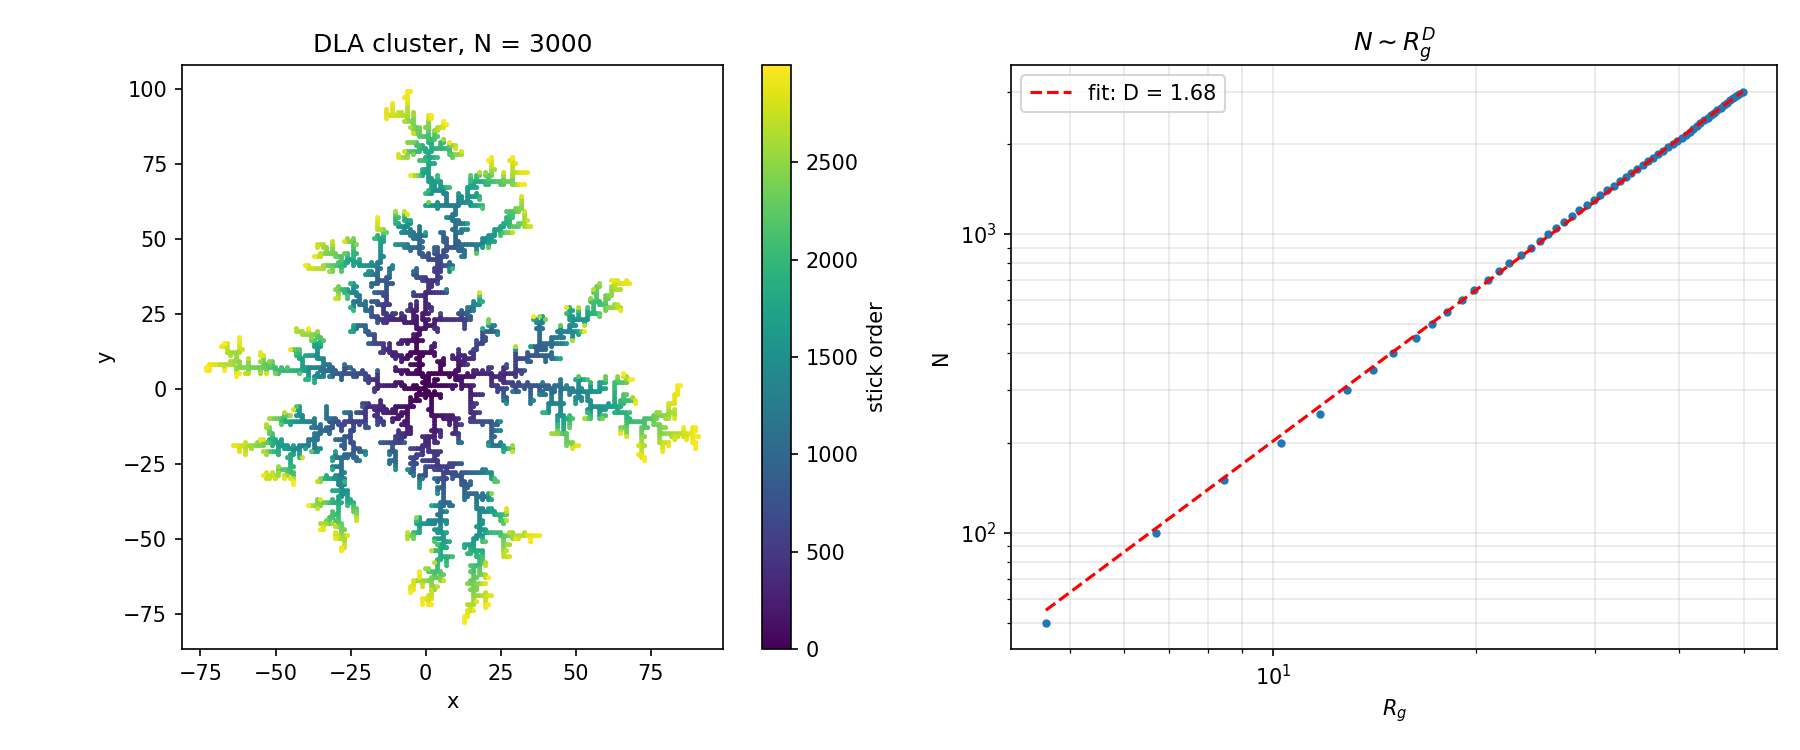
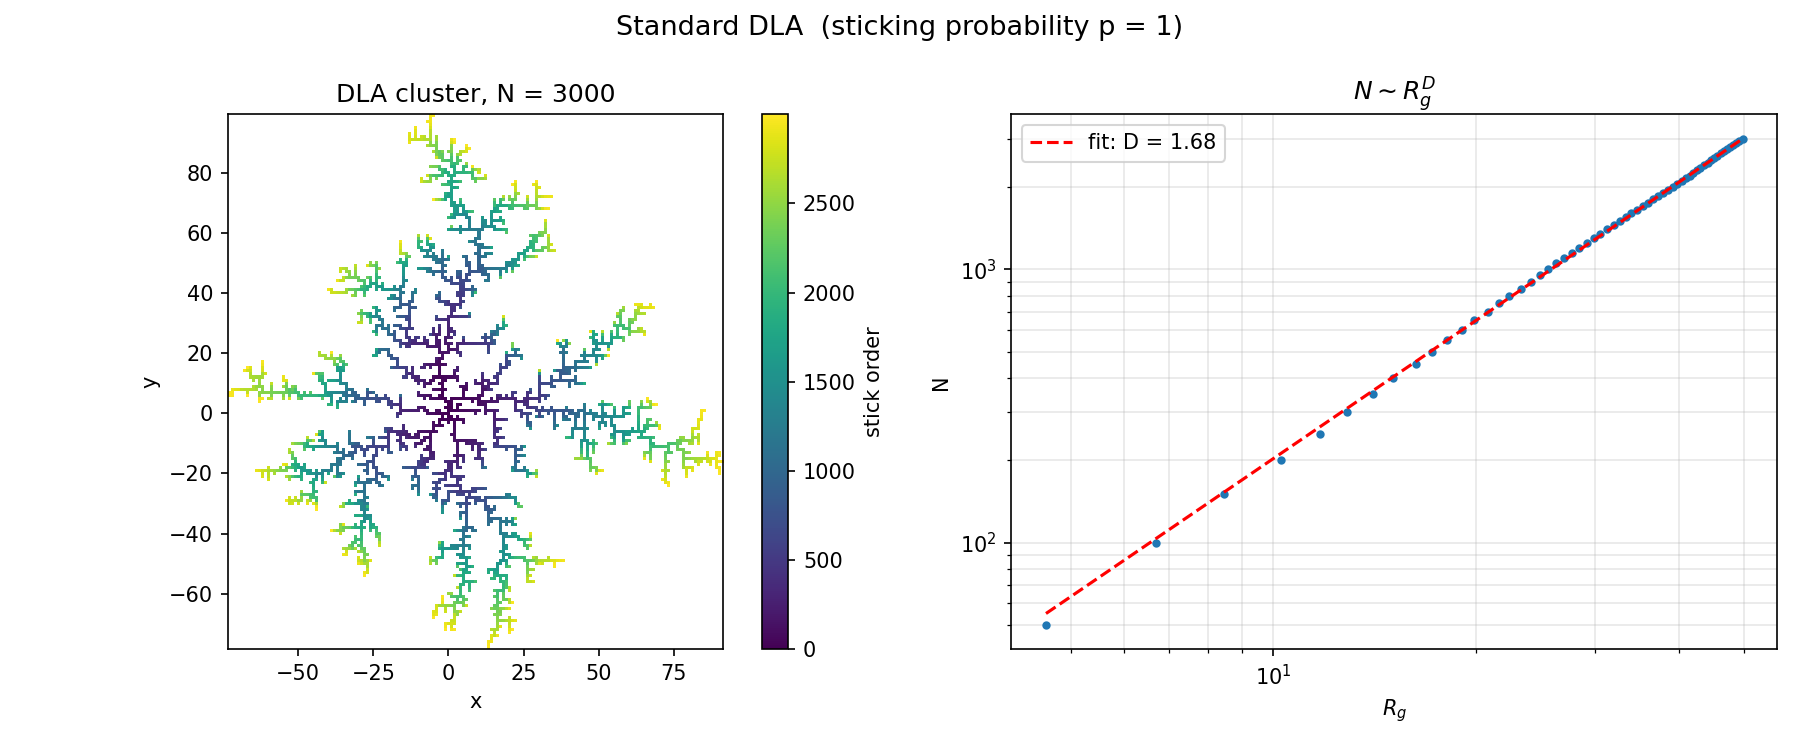
made 1/N DLA implemenation

diff --git a/DLA_with_DimensionPlot.py b/DLA_with_DimensionPlot.py
@@ -16,15 +16,23 @@ Expected: D ~= 1.71 in 2D for large clusters.
 
 import math
 import random
+from typing import Callable
 import numpy as np
 import matplotlib.pyplot as plt
 
 
 def run_dla(n_particles: int,
-            stick_prob: float = 1.0,
+            stick_prob: float | Callable[[int], float] = 1.0,
             seed: int | None = None) -> tuple[np.ndarray, list[float]]:
     """
     Grow a DLA cluster of n_particles on the 2D square lattice.
+
+    stick_prob may be either:
+      - a float in (0, 1]: constant sticking probability, or
+      - a callable f(n) -> probability, evaluated with the current cluster
+        size n at each contact. E.g. stick_prob=lambda n: 1.0 / n gives a
+        probability that decays as 1/N, so walkers penetrate deeper into the
+        cluster as it grows.
 
     Returns:
         sites: (N, 2) integer array of particle coordinates, in stick order
@@ -83,11 +91,23 @@ def run_dla(n_particles: int,
             ix = int(round(x))
             iy = int(round(y))
 
-            # Check if any neighbor is occupied -> stick (with prob stick_prob).
+            # If the walker has wandered onto an occupied site (possible when
+            # the stick probability is low and it keeps moving), step off
+            # rather than attaching a duplicate on top of an existing particle.
+            if (ix, iy) in cluster:
+                dx, dy = random.choice(neighbors)
+                x = ix + dx
+                y = iy + dy
+                continue
+
+            # Check if any neighbor is occupied -> stick (with prob p).
+            # p is either a constant or, for the 1/N variant, a function of
+            # the current cluster size n.
+            p = float(stick_prob(n) if callable(stick_prob) else stick_prob)
             stuck = False
             for dx, dy in neighbors:
                 if (ix + dx, iy + dy) in cluster:
-                    if stick_prob >= 1.0 or random.random() < stick_prob:
+                    if p >= 1.0 or random.random() < p:
                         stuck = True
                         break
 
@@ -136,18 +156,29 @@ def estimate_D(Rg_history: list[float], n_particles: int) -> float:
     return float(D)
 
 
-def plot_cluster(sites: np.ndarray, Rg_history: list[float], n_particles: int):
+def plot_cluster(sites: np.ndarray, Rg_history: list[float], n_particles: int,
+                 label: str = ""):
     fig, (ax1, ax2) = plt.subplots(1, 2, figsize=(12, 5))
+    if label:
+        fig.suptitle(label, fontsize=13)
 
-    # Color by attachment order to show screening.
-    order_idx = np.arange(len(sites))
-    sc = ax1.scatter(sites[:, 0], sites[:, 1], c=order_idx,
-                     cmap="viridis", s=2)
+    # Render as filled lattice cells, colored by attachment order (shows
+    # screening). imshow tiles each occupied node as a solid pixel, so the
+    # cluster looks like a connected aggregate rather than scattered dots.
+    xs, ys = sites[:, 0], sites[:, 1]
+    xmin, xmax = int(xs.min()), int(xs.max())
+    ymin, ymax = int(ys.min()), int(ys.max())
+    grid = np.full((ymax - ymin + 1, xmax - xmin + 1), np.nan)
+    grid[ys - ymin, xs - xmin] = np.arange(len(sites))
+
+    im = ax1.imshow(grid, origin="lower", cmap="viridis",
+                    interpolation="nearest",
+                    extent=[xmin - 0.5, xmax + 0.5, ymin - 0.5, ymax + 0.5])
     ax1.set_aspect("equal")
     ax1.set_title(f"DLA cluster, N = {len(sites)}")
     ax1.set_xlabel("x")
     ax1.set_ylabel("y")
-    plt.colorbar(sc, ax=ax1, label="stick order")
+    plt.colorbar(im, ax=ax1, label="stick order")
 
     # Log-log N vs R_g.
     Ns = np.arange(50, 50 * len(Rg_history), 50)[: len(Rg_history) - 1]
@@ -174,10 +205,26 @@ def plot_cluster(sites: np.ndarray, Rg_history: list[float], n_particles: int):
 
 
 if __name__ == "__main__":
+    # --- Standard DLA: stick on first contact (p = 1) ---
     N = 3000           # ~3k matches Fig. 4 of Sander & Ziff 1994
     sites, Rg_history = run_dla(N, stick_prob=1.0, seed=42)
-    fig, D = plot_cluster(sites, Rg_history, N)
-    print(f"Particles: {N}")
-    print(f"Estimated fractal dimension D = {D:.3f}  (Witten-Sander: ~1.71)")
+    fig, D = plot_cluster(sites, Rg_history, N,
+                          label="Standard DLA  (sticking probability p = 1)")
+    print("Standard DLA (p = 1)")
+    print(f"  Particles: {N}")
+    print(f"  Estimated fractal dimension D = {D:.3f}  (Witten-Sander: ~1.71)")
     fig.savefig("DLA_w_DimPlot.png", dpi=150)
+
+    # --- 1/N variant: sticking probability decays with cluster size ---
+    # p = 1/n means a walker needs ~n contacts to attach near the end, so
+    # growth is much slower; use a smaller N to keep runtime reasonable.
+    N2 = 3000
+    sites2, Rg_history2 = run_dla(N2, stick_prob=lambda n: 1.0 / n, seed=42)
+    fig2, D2 = plot_cluster(sites2, Rg_history2, N2,
+                            label="DLA with sticking probability p = 1/N")
+    print("\n1/N DLA (p = 1/n, n = current cluster size)")
+    print(f"  Particles: {N2}")
+    print(f"  Estimated fractal dimension D = {D2:.3f}")
+    fig2.savefig("DLA_1overN_DimPlot.png", dpi=150)
+
     plt.show()

diff --git a/cca_mmc.py b/cca_mmc.py
@@ -1,6 +1,5 @@
 import numpy as np
 import matplotlib.pyplot as plt
-from collections import defaultdict
 
 # 4 nearest-neighbour displacements on the square lattice
 NEIGHBORS = ((1, 0), (-1, 0), (0, 1), (0, -1))
@@ -139,26 +138,6 @@ class CCA:
         cm = pts.mean(axis=0)
         return np.sqrt(((pts - cm) ** 2).sum(axis=1).mean())
 
-    def size_distribution(self):
-        sizes = np.array([len(s) for s in self.clusters.values()])
-        return sizes
-
-    def fractal_dim_Rg(self, min_size=8):
-        """Fit s = a * R_g^Df  ->  log Rg vs log s, slope = 1/Df."""
-        s_list, rg_list = [], []
-        for sites in self.clusters.values():
-            s = len(sites)
-            if s >= min_size:
-                s_list.append(s)
-                rg_list.append(self.radius_of_gyration(sites))
-        if len(s_list) < 3:
-            return np.nan, (np.array(s_list), np.array(rg_list))
-        s_arr = np.array(s_list, float)
-        rg_arr = np.array(rg_list, float)
-        slope, _ = np.polyfit(np.log(s_arr), np.log(rg_arr), 1)
-        Df = 1.0 / slope
-        return Df, (s_arr, rg_arr)
-
     def box_count_Df(self, sites):
         """Box-counting dimension of one cluster's site set."""
         pts = np.array(list(sites))
@@ -253,37 +232,16 @@ def plot_cluster(sites, ax, title=None):
 def make_figure(out, fname="cca_results.png"):
     sim = out["sim"]
     snp = _best_snapshot(out["snapshots"])
-    fig, ax = plt.subplots(3, 2, figsize=(12, 14))
+    if snp is None:
+        raise ValueError("no snapshots recorded; increase sweeps or set dist_every > 0")
 
-    # (1) kinetics: N_c(t), mean size, largest cluster
+    fig, ax = plt.subplots(2, 2, figsize=(12, 10))
+    fig.suptitle(f"Cluster–cluster aggregation  "
+                 f"(N={sim.N}, M={sim.M}, $\\phi$={sim.phi:.3f}, T*={sim.Tstar})",
+                 fontsize=14, fontweight="bold")
+
+    # (1) R_g vs s on the best snapshot, slope = 1/Df
     a = ax[0, 0]
-    a.loglog(out["t"], out["Nc"], label=r"$N_c(t)$")
-    a.loglog(out["t"], out["sbar"], label=r"$\langle s\rangle = M/N_c$")
-    a.loglog(out["t"], out["smax"], label=r"$s_{\max}$")
-    a.set_xlabel("sweeps (MCS)")
-    a.set_ylabel("count / size")
-    a.set_title(f"Kinetics  (N={sim.N}, M={sim.M}, T*={sim.Tstar})")
-    a.legend(); a.grid(True, which="both", alpha=.3)
-
-    # (2) polydisperse configuration at the snapshot used for scaling
-    a = ax[0, 1]
-    lab = snp["lattice"]
-    ids = np.unique(lab)
-    disp = np.zeros_like(lab)
-    k = 1
-    for cid in ids:
-        if cid == 0:
-            continue
-        disp[lab == cid] = (k % 19) + 1
-        k += 1
-    disp = np.ma.masked_where(disp == 0, disp)
-    a.imshow(disp, cmap="tab20", interpolation="nearest")
-    a.set_title(f"Config at sweep {snp['sweep']}: "
-                f"{(snp['sizes']>0).sum()} clusters")
-    a.set_xticks([]); a.set_yticks([])
-
-    # (3) R_g vs s on that snapshot, slope = 1/Df
-    a = ax[1, 0]
     Df, (s_arr, rg_arr) = _fit_Df_from_snapshot(snp["sizes"], snp["rgs"])
     if len(s_arr) >= 3:
         a.loglog(s_arr, rg_arr, "o", ms=4, alpha=.6)
@@ -298,10 +256,9 @@ def make_figure(out, fname="cca_results.png"):
     a.set_title(rf"Fractal scaling (sweep {snp['sweep']})")
     a.grid(True, which="both", alpha=.3)
 
-    # (4) box counting on the largest cluster of the FINAL state
+    # (2) box counting on the largest cluster of the FINAL state
     big = max(sim.clusters.values(), key=len)
-
-    a = ax[1, 1]
+    a = ax[0, 1]
     Df_box, bc = sim.box_count_Df(big)
     if bc is not None:
         eps_vals, counts = bc
@@ -313,12 +270,12 @@ def make_figure(out, fname="cca_results.png"):
     a.set_title(f"Box-counting, largest final cluster (s={len(big)})")
     a.grid(True, which="both", alpha=.3)
 
-    # (5) scatter plot of the largest final cluster itself
-    a = ax[2, 0]
+    # (3) scatter plot of the largest final cluster itself
+    a = ax[1, 0]
     plot_cluster(big, a, title=f"Largest final cluster (s={len(big)})")
 
-    # (6) binary mask of the largest final cluster
-    a = ax[2, 1]
+    # (4) binary mask of the largest final cluster
+    a = ax[1, 1]
     pts = np.array(list(big), dtype=int)
     mins = pts.min(axis=0)
     mask = np.zeros((pts[:, 0].max() - mins[0] + 1,
@@ -329,7 +286,7 @@ def make_figure(out, fname="cca_results.png"):
     a.set_xticks([]); a.set_yticks([])
 
     fig.tight_layout()
-    fig.savefig(fname, dpi=130)
+    fig.savefig(fname, dpi=150, bbox_inches="tight")
     return Df, Df_box
 
 

diff --git a/Notetaking.md b/Notetaking.md
@@ -1,0 +1,27 @@
+'''
+create a class for the cluster-cluster aggregate simulation such that it has the following:
+
+- initializing method with lattice dimension N, flux of particles phi, Tstar, periodic option, and seed value
+- M is number of particles aka flux (particles/area) times area aka N^2
+- phi is not int whereas N should be int, either way, M must be an int thus round result of flux times N^2 to get M 
+- then update phi based on rounded value of M by doing M/N^2 to obtain true phi value accurate for that of this sim given this M int value we got after rounding
+
+- make a 2d array of zeros for our lattice grid w lengths of N and N
+- then randomly select M many numbers (non-overlapping) between 0 and N^2-1 via self.rng.choice 
+- imagine labeling each lattice box in the 2d array aka grid with a number in a continuous sequence manner going from 0 all the way to N^2-1 value
+- then each randomly selected number (of the M many) corresponds to a site on the grid 
+- find the indices of that site by doing division by number of columns (aka N) to get the row index and then uing remainder to get the  column index
+- do this for each of the M numbers randomly choosen so that you have the M many random indices of the 2d NxN array
+- we obtained a list of row indices and column indices, but we would like a single object storing the indices
+- thus use use np.stack to form a 2d array (of dimension Nx2 by choosing axis=1) where we combine the row list and col list together into one 2d array (which we name self.pos)
+
+status check: we now have an array self.pos which holds the M row and M col indices side by side and we have an NxN lattice grid (array) that is currently holding zeros for every element 
+
+- we would like a way to "occupy" or denote "status of being occupied" for the lattice squares of our NxN grid if the lattice square has indices which are stored in our self.pos array thus we must replace the zero's in those positions with something that indicates those locations are "occupied"
+
+- We will indicate occupation of a lattice square by having that lattice square aka the element in the array store an id for the cluster/particle occupying it and conversely we would like to indicate "empty" or "lack of occupation" by storing a zero instead (this way we can use ids to keep track of clusters that span multiple lattice squares too since each cluster will get its own id which will appear on all lattice squares that belong to it)
+- So, since we would like to avoid using 0 as a cluster id (so that we can instead use it to identify postions in our lattice that are un-occupied), we should simply add 1 to each of the M random numbers and assign that as the cluster id for each of the M particles originally randomly chosen (this is the cid=p+1 line 34)
+- then we are free to store cid in the lattice squares which we decided (randomly) will be occupied; these lattices are those with the indices stored in self.pos or equivalently in our rows and cols lists (using rows and cols lists is better in the flow of this program hence why we do that... specifically we use a loop to go through all the M particles/clusters we've created originally and find the row and col they correspond to, then assign the row and col to i,j for convenience of programmer UI/reading, and then we just make that corresponding element in our NxN 2d array self.lattice store cid in that spot indexed by i,j
+- we also want to be able to easily determine the index of each particle/cluster and rather than searching through the entire lattice each time and checking whether or not the  cluster we are looking for is the one in the spot we are looking at and doing this for all the spots, we can just create a dictionary with keys being the cluster ids and the definitions aka values being their index...also since clusters will grow to contain multiple lattice squares, it is convenient to be able to have all of those indices located under the cluster id in a dictionary, again reducing time/complexity since you just need to find cid once and then you have all indices rather than looking through all N^2 lattice squares
+
+'''
